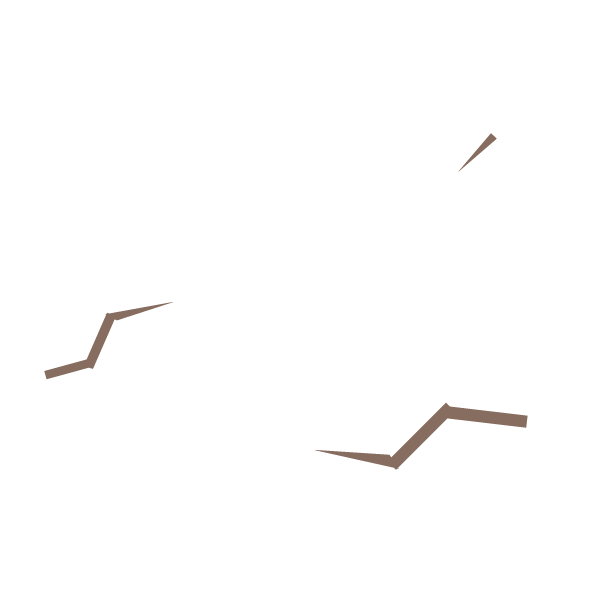
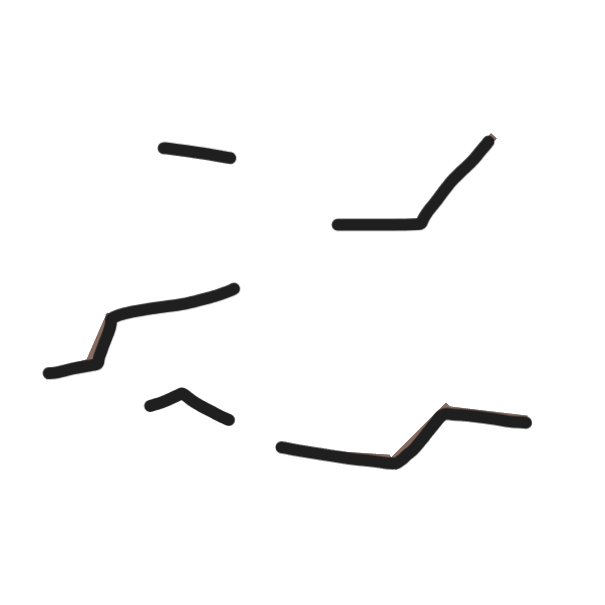
Make egg sprite bolder. Fix egg respawn in hands.

diff --git a/shared/gameState.ts b/shared/gameState.ts
@@ -253,7 +253,12 @@ const movePlayers = (gameState: GameState, mapState: MapState): number[] => {
   return playersThatMoved;
 };
 
-const resetEgg = (egg: EggState) => {
+const resetEgg = (egg: EggState, gameState: GameState) => {
+  if (egg.heldBy) {
+    const holder = gameState.players[egg.heldBy];
+    holder.heldObject = undefined;
+    egg.heldBy = undefined;
+  }
   egg.temp = 0.5;
   egg.wetness = 0.5;
   egg.hp = 1;
@@ -284,7 +289,7 @@ const updateEggState = (
       console.log("Egg hatched!");
       gameState.hatched += 1;
     }
-    resetEgg(egg);
+    resetEgg(egg, gameState);
     let pos: TileCoord;
     do {
       pos = [

diff --git a/client/src/objects/SceneryObject.ts b/client/src/objects/SceneryObject.ts
@@ -4,7 +4,7 @@ import { Disposable } from "./disposable.js";
 
 import { makeWallObject } from "./WallObject.js";
 import { makeDeviceObject } from "./DeviceObject.js";
-import StickyFloor, { makeStickyFloorObject } from "./StickyFloorObject.js";
+import { makeStickyFloorObject } from "./StickyFloorObject.js";
 import { Updatable } from "../components/UpdatableComponent.js";
 
 class SceneryObject extends THREE.Group implements Disposable {
